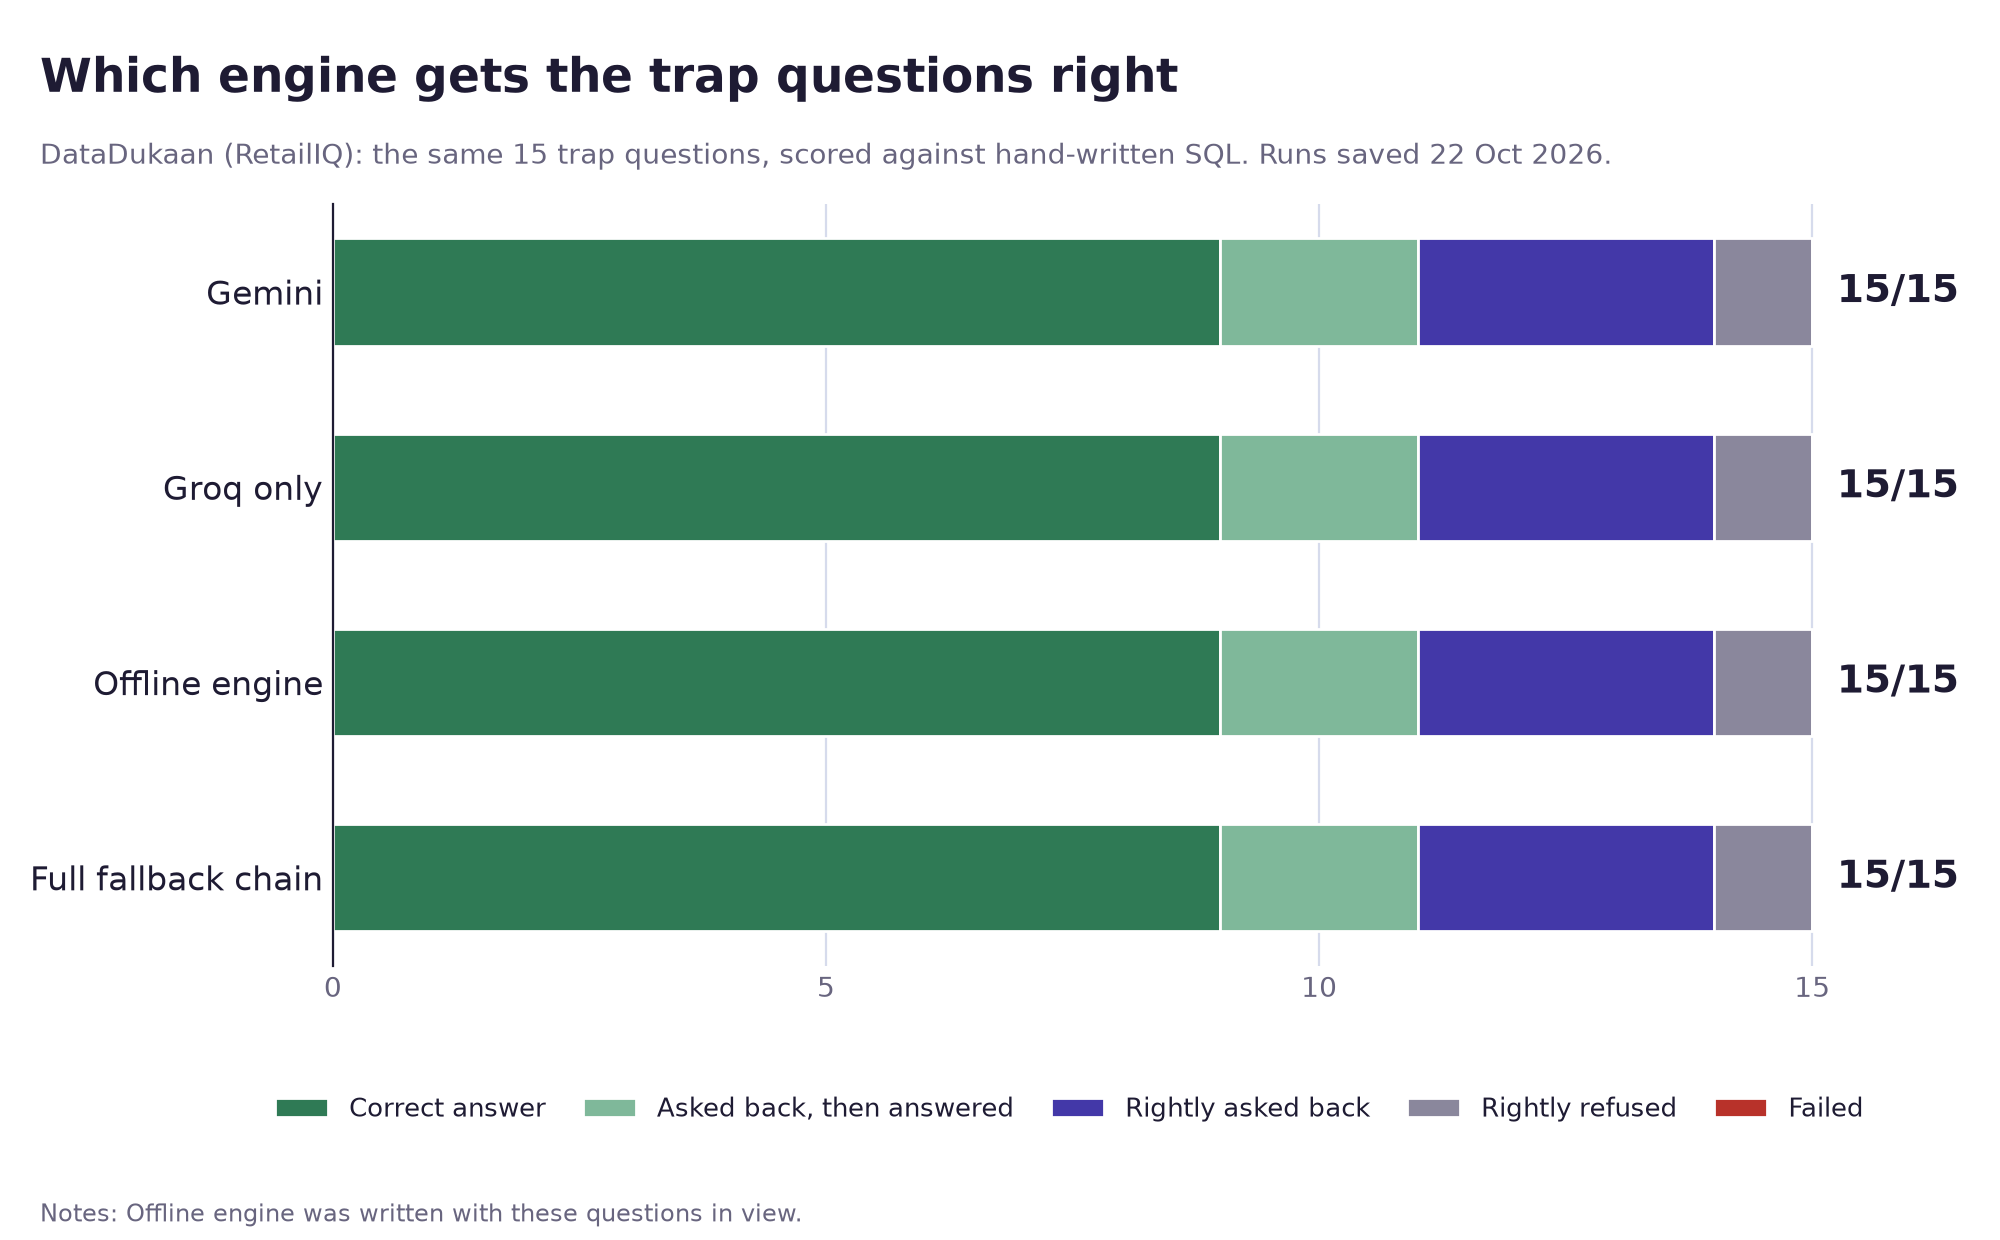
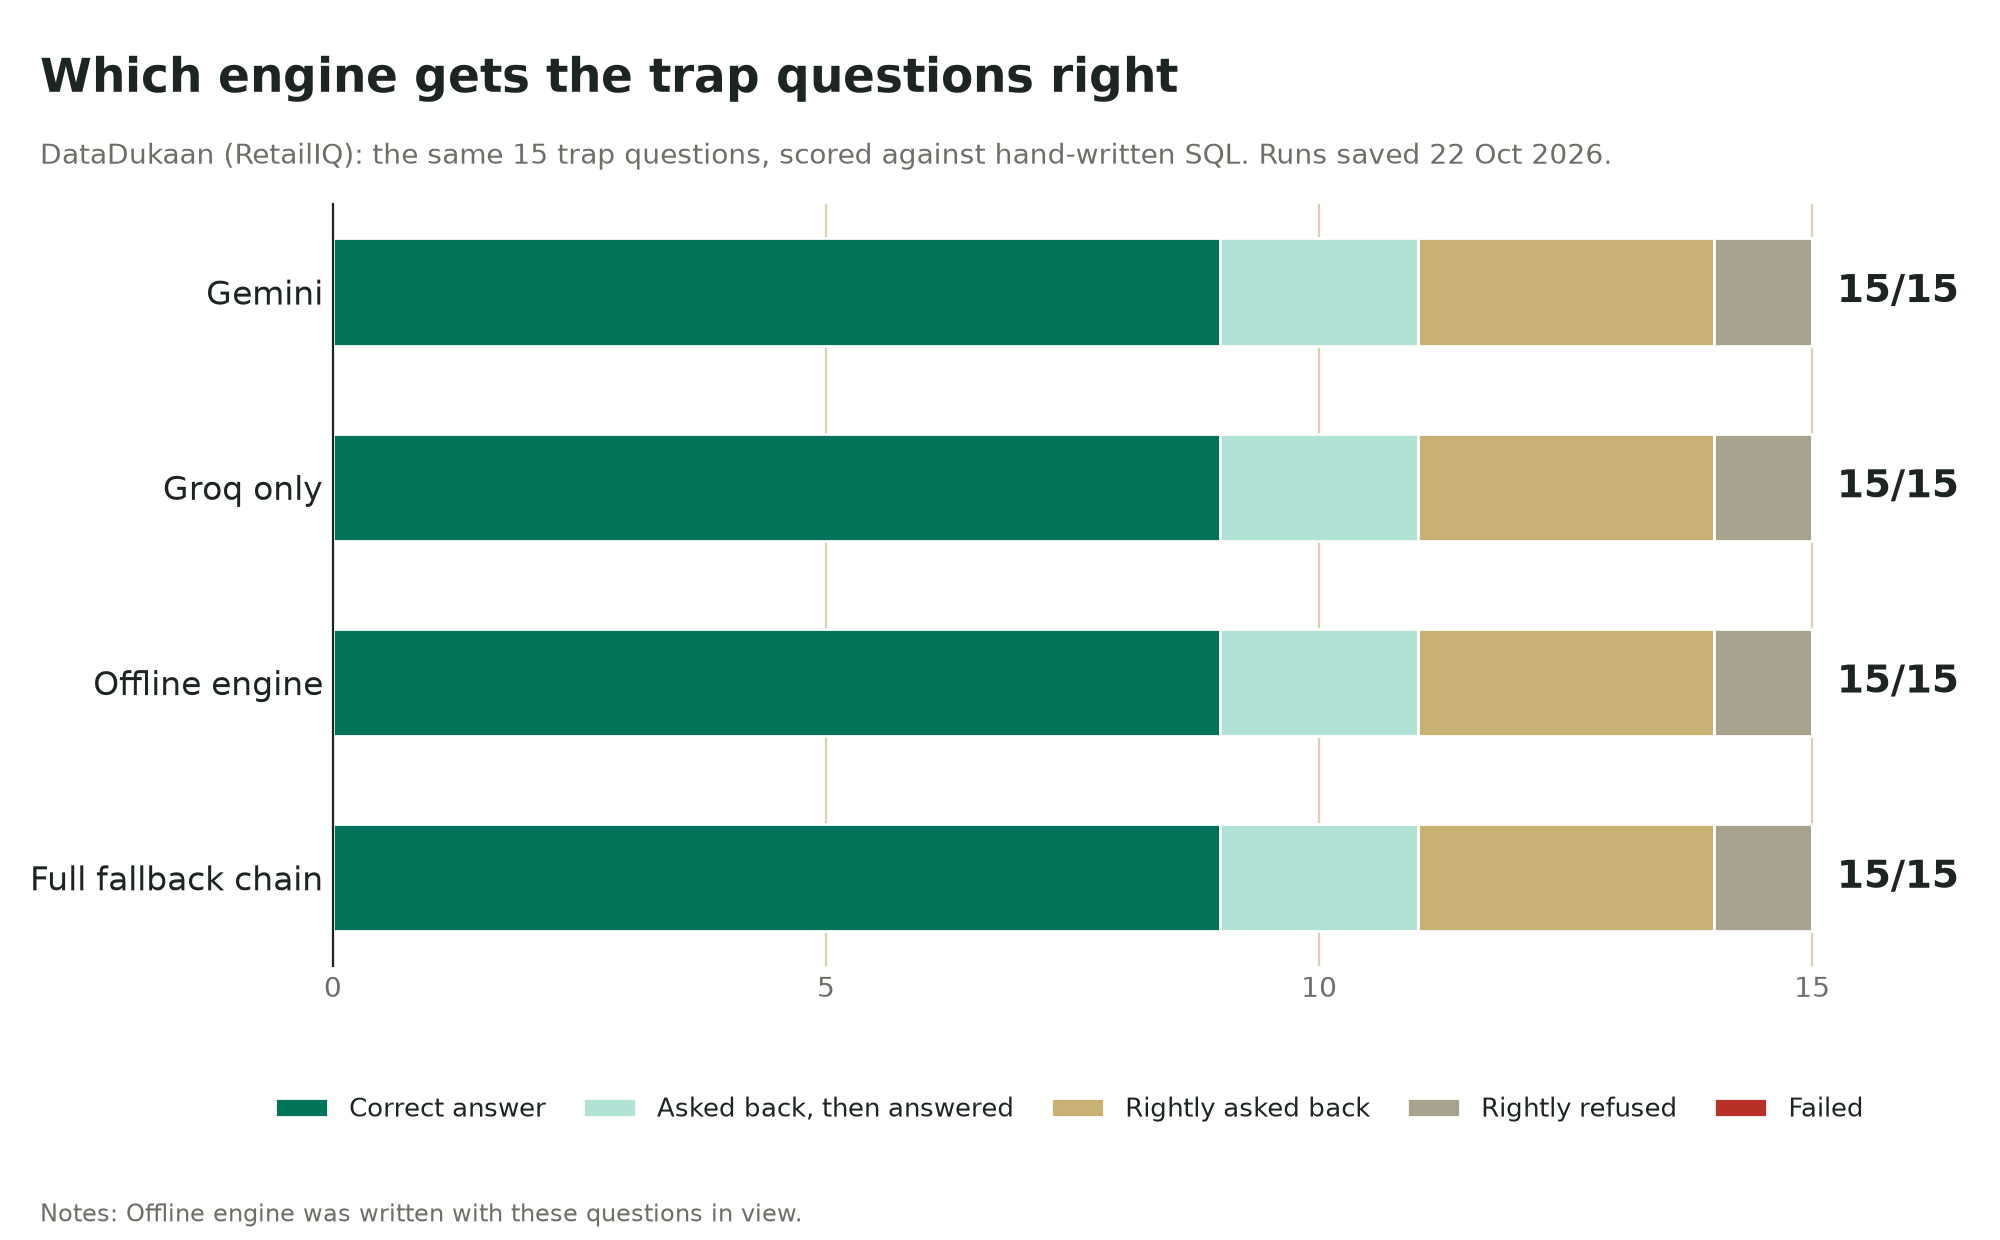
Apply teal, mint, off-white, sand and gold colour palette

diff --git a/web/src/components/Workspace.tsx b/web/src/components/Workspace.tsx
@@ -25,11 +25,11 @@ export function stampFor(e: Entry): StampKind | null {
   if (e.error) return { text: "Failed", color: "text-stamp" };
   const r = e.response;
   if (!r) return null;
-  if (r.status === "clarification") return { text: "Needs detail", color: "text-carbon" };
+  if (r.status === "clarification") return { text: "Needs detail", color: "text-gold-deep" };
   if (r.status === "refused" || r.status === "blocked") return { text: "Refused", color: "text-stamp" };
   if (r.status === "unavailable") return { text: "Can't answer", color: "text-stamp" };
   if (r.status !== "success") return { text: "Failed", color: "text-stamp" };
-  if (r.attempts > 1) return { text: "Fixed & re-run", color: "text-carbon" };
+  if (r.attempts > 1) return { text: "Fixed & re-run", color: "text-gold-deep" };
   if (r.source === "offline") return { text: "Answered offline", color: "text-ledger" };
   if (r.source === "saved") return { text: "Saved answer", color: "text-ledger" };
   return { text: "Answered", color: "text-ledger" };
@@ -112,11 +112,11 @@ export default function Workspace() {
     <div className="space-y-4">
       <div className="sheet grid min-h-[520px] md:grid-cols-[230px_10px_1fr]">
         {/* Counterfoils: one stub per question, in the order asked. */}
-        <aside className="border-b border-rule bg-[#FAFAFD] md:border-b-0">
+        <aside className="border-b border-rule bg-[#FCFBF7] md:border-b-0">
           <div className="flex items-baseline justify-between px-4 pb-2 pt-4">
             <span className="text-sm font-semibold">This session</span>
             {entries.length > 0 && (
-              <button onClick={startOver} className="text-[13px] text-muted underline-offset-2 hover:text-carbon hover:underline">
+              <button onClick={startOver} className="text-[13px] text-muted underline-offset-2 hover:text-carbon-deep hover:underline">
                 Start over
               </button>
             )}
@@ -137,7 +137,7 @@ export default function Workspace() {
                         setViewSaved(null);
                       }}
                       className={`block w-full border-l-[3px] px-4 py-3 text-left transition-colors ${
-                        !viewSaved && selected === i ? "border-carbon bg-carbon-wash/70" : "border-transparent hover:bg-carbon-wash/40"
+                        !viewSaved && selected === i ? "border-carbon bg-carbon-wash/50" : "border-transparent hover:bg-carbon-wash/40"
                       }`}
                     >
                       <span className="narrow text-[15px] font-bold text-muted">No. {String(i + 1).padStart(3, "0")}</span>
@@ -159,7 +159,7 @@ export default function Workspace() {
                     <button
                       onClick={() => setViewSaved(s.id)}
                       className={`block w-full border-l-[3px] px-4 py-2.5 text-left transition-colors ${
-                        viewSaved === s.id ? "border-ledger bg-carbon-wash/70" : "border-transparent hover:bg-carbon-wash/40"
+                        viewSaved === s.id ? "border-ledger bg-carbon-wash/50" : "border-transparent hover:bg-carbon-wash/40"
                       }`}
                     >
                       <span className="line-clamp-2 block text-[13.5px] leading-snug">{s.question}</span>
@@ -224,11 +224,11 @@ export default function Workspace() {
         </div>
         <div className="flex flex-wrap gap-x-6 gap-y-1 px-4 pb-3 pt-2 text-[13px] text-muted">
           <label className="flex cursor-pointer items-center gap-2">
-            <input type="checkbox" checked={injectFault} onChange={(e) => setInjectFault(e.target.checked)} className="accent-carbon" />
+            <input type="checkbox" checked={injectFault} onChange={(e) => setInjectFault(e.target.checked)} className="accent-carbon-deep" />
             Demo: break the first SQL, to watch the agent fix it
           </label>
           <label className="flex cursor-pointer items-center gap-2">
-            <input type="checkbox" checked={simulateOutage} onChange={(e) => setSimulateOutage(e.target.checked)} className="accent-carbon" />
+            <input type="checkbox" checked={simulateOutage} onChange={(e) => setSimulateOutage(e.target.checked)} className="accent-carbon-deep" />
             Demo: pretend the AI is down, to use the offline engine
           </label>
         </div>
@@ -289,7 +289,7 @@ function Bill({
 
       {!r && !entry.error && (
         <div className="mt-6 flex items-center gap-3 text-[15px] text-muted">
-          <Loader2 className="animate-spin text-carbon" size={18} /> Reading the question, writing SQL and running it on the ledger…
+          <Loader2 className="animate-spin text-carbon-deep" size={18} /> Reading the question, writing SQL and running it on the ledger…
         </div>
       )}
 
@@ -314,7 +314,7 @@ function Bill({
 
           {r.status === "success" && (
             <>
-              <button onClick={onToggleSave} className="mt-4 text-[13px] font-medium text-carbon underline-offset-2 hover:underline">
+              <button onClick={onToggleSave} className="mt-4 text-[13px] font-medium text-carbon-deep underline-offset-2 hover:underline">
                 {saved ? "Remove from saved analyses" : "Save this analysis"}
               </button>
               <ResultView r={r} />

diff --git a/web/src/components/ResultView.tsx b/web/src/components/ResultView.tsx
@@ -84,7 +84,7 @@ export function SortableTable({ columns, rows, max = 200, exportable = true }: {
         </table>
       </div>
       {exportable && (
-        <button onClick={() => downloadCSV("datadukaan-result.csv", columns, rows)} className="mt-3 text-[13px] font-medium text-carbon underline-offset-2 hover:underline">
+        <button onClick={() => downloadCSV("datadukaan-result.csv", columns, rows)} className="mt-3 text-[13px] font-medium text-carbon-deep underline-offset-2 hover:underline">
           Download as CSV
         </button>
       )}
@@ -101,7 +101,7 @@ function AutoChart({ r }: { r: AskResponse }) {
   const data = r.rows.map((row) => ({ label: String(useDesc ? row[descIdx] ?? row[0] : row[0]).slice(0, 30), value: row[valueIdx] as number }));
   const fmt = (v: number) => formatCell(valueCol, v);
   const compact = (v: number) => Intl.NumberFormat("en-GB", { notation: "compact" }).format(v);
-  const axis = { fontSize: 12, fill: "#68657F", fontFamily: "Archivo" };
+  const axis = { fontSize: 12, fill: "#6B6F66", fontFamily: "Archivo" };
   return (
     <figure>
       <figcaption className="mb-2 text-[13px] text-muted">
@@ -110,19 +110,19 @@ function AutoChart({ r }: { r: AskResponse }) {
       <ResponsiveContainer width="100%" height={Math.max(240, r.chart_type === "bar" ? data.length * 30 + 40 : 300)}>
         {r.chart_type === "line" ? (
           <LineChart data={data} margin={{ left: 4, right: 16, top: 8 }}>
-            <CartesianGrid stroke="#D6DBEC" vertical={false} />
-            <XAxis dataKey="label" tick={axis} tickLine={false} axisLine={{ stroke: "#1E1B33" }} />
+            <CartesianGrid stroke="#DED0AB" vertical={false} />
+            <XAxis dataKey="label" tick={axis} tickLine={false} axisLine={{ stroke: "#1D2521" }} />
             <YAxis tick={axis} tickFormatter={compact} tickLine={false} axisLine={false} width={56} />
-            <Tooltip formatter={(v: number) => fmt(v)} contentStyle={{ borderRadius: 2, borderColor: "#D6DBEC", fontFamily: "Archivo" }} />
-            <Line type="monotone" dataKey="value" name={valueCol} stroke="#4338A8" strokeWidth={2.5} dot={{ r: 3, fill: "#4338A8" }} />
+            <Tooltip formatter={(v: number) => fmt(v)} contentStyle={{ borderRadius: 2, borderColor: "#DED0AB", fontFamily: "Archivo" }} />
+            <Line type="monotone" dataKey="value" name={valueCol} stroke="#009B77" strokeWidth={2.5} dot={{ r: 3, fill: "#009B77" }} />
           </LineChart>
         ) : (
           <BarChart data={data} layout="vertical" margin={{ left: 4, right: 24 }}>
-            <CartesianGrid stroke="#D6DBEC" horizontal={false} />
+            <CartesianGrid stroke="#DED0AB" horizontal={false} />
             <XAxis type="number" tick={axis} tickFormatter={compact} tickLine={false} axisLine={false} />
-            <YAxis type="category" dataKey="label" width={200} tick={axis} interval={0} tickLine={false} axisLine={{ stroke: "#1E1B33" }} />
-            <Tooltip formatter={(v: number) => fmt(v)} cursor={{ fill: "#ECEAF8" }} contentStyle={{ borderRadius: 2, borderColor: "#D6DBEC", fontFamily: "Archivo" }} />
-            <Bar dataKey="value" name={valueCol} fill="#4338A8" barSize={16} />
+            <YAxis type="category" dataKey="label" width={200} tick={axis} interval={0} tickLine={false} axisLine={{ stroke: "#1D2521" }} />
+            <Tooltip formatter={(v: number) => fmt(v)} cursor={{ fill: "#B2E1D6" }} contentStyle={{ borderRadius: 2, borderColor: "#DED0AB", fontFamily: "Archivo" }} />
+            <Bar dataKey="value" name={valueCol} fill="#009B77" barSize={16} />
           </BarChart>
         )}
       </ResponsiveContainer>
@@ -143,7 +143,7 @@ export function SqlInspector({ sql, note = true }: { sql: string; note?: boolean
             setCopied(true);
             setTimeout(() => setCopied(false), 1500);
           }}
-          className="font-medium text-carbon underline-offset-2 hover:underline"
+          className="font-medium text-carbon-deep underline-offset-2 hover:underline"
         >
           {copied ? "Copied" : "Copy SQL"}
         </button>

diff --git a/web/src/index.css b/web/src/index.css
@@ -7,7 +7,7 @@ body {
 }
 
 :focus-visible {
-  outline: 2px solid #4338a8;
+  outline: 2px solid #00735a;
   outline-offset: 2px;
 }
 
@@ -23,26 +23,26 @@ body {
 /* A bill-book sheet: the one surface with depth. */
 .sheet {
   @apply bg-sheet;
-  box-shadow: 0 1px 0 #d6dbec, 0 18px 40px -28px rgba(30, 27, 51, 0.45);
+  box-shadow: 0 1px 0 #ded0ab, 0 18px 40px -28px rgba(29, 37, 33, 0.3);
 }
 
 /* Perforation between counterfoil and bill. */
 .perforation {
-  background-image: radial-gradient(circle, #eeedf5 2.5px, transparent 3px);
+  background-image: radial-gradient(circle, #ded0ab 2.5px, transparent 3px);
   background-size: 8px 13px;
   background-position: center top;
   background-repeat: repeat-y;
 }
 .perforation-h {
-  background-image: radial-gradient(circle, #eeedf5 2.5px, transparent 3px);
+  background-image: radial-gradient(circle, #ded0ab 2.5px, transparent 3px);
   background-size: 13px 8px;
   background-repeat: repeat-x;
   background-position: left center;
 }
 
-/* Red margin rule, as in a ledger book. */
+/* Gold margin rule, as in a ledger book. */
 .margin-rule {
-  border-left: 1px solid #e28a85;
+  border-left: 1px solid #c8b273;
   padding-left: 0.875rem;
 }
 
@@ -57,19 +57,19 @@ body {
 /* Ledger tables: double rule under the header, like an account book. */
 .ledger th {
   @apply narrow whitespace-nowrap px-3 pb-1.5 pt-2 text-left text-[13px] font-semibold text-muted;
-  border-bottom: 3px double #1e1b33;
+  border-bottom: 3px double #1d2521;
 }
 .ledger td {
   @apply border-b border-rule px-3 py-1.5;
 }
 .ledger tr:hover td {
-  background: #f6f5fb;
+  background: #f3efe2;
 }
 
-/* Carbon copy: SQL printed in violet carbon ink. */
+/* Carbon copy: SQL printed in teal carbon ink. */
 .carbon-copy {
-  @apply overflow-x-auto whitespace-pre-wrap break-words rounded-sm bg-carbon-wash p-4 font-mono text-[12.5px] leading-relaxed text-carbon-deep;
-  background-image: repeating-linear-gradient(0deg, transparent 0 21px, rgba(67, 56, 168, 0.07) 21px 22px);
+  @apply overflow-x-auto whitespace-pre-wrap break-words rounded-sm bg-carbon-wash/40 p-4 font-mono text-[12.5px] leading-relaxed text-carbon-deep;
+  background-image: repeating-linear-gradient(0deg, transparent 0 21px, rgba(0, 155, 119, 0.09) 21px 22px);
 }
 
 /* Rubber stamp: the single loud element. */
@@ -105,11 +105,11 @@ body {
   @apply -mb-px whitespace-nowrap border-b-2 border-transparent px-1 pb-2 text-sm font-medium text-muted transition-colors hover:text-ink;
 }
 .tab[aria-selected="true"] {
-  @apply border-carbon text-carbon;
+  @apply border-carbon text-carbon-deep;
 }
 
 .btn-carbon {
-  @apply rounded-sm bg-carbon px-4 py-2 text-sm font-semibold text-white transition-colors hover:bg-carbon-deep disabled:opacity-40;
+  @apply rounded-sm bg-carbon-deep px-4 py-2 text-sm font-semibold text-white transition-colors hover:bg-[#005C48] disabled:opacity-40;
 }
 
 @media (prefers-reduced-motion: reduce) {

diff --git a/web/src/components/Evaluation.tsx b/web/src/components/Evaluation.tsx
@@ -128,7 +128,7 @@ export default function Evaluation() {
                     <td className="hidden align-top text-[13px] text-muted sm:table-cell">{t.category}</td>
                     <td className="py-2 text-right align-top">
                       {running === t.id ? (
-                        <Loader2 size={16} className="ml-auto animate-spin text-carbon" />
+                        <Loader2 size={16} className="ml-auto animate-spin text-carbon-deep" />
                       ) : r ? (
                         <span className={`stamp stamp-sm ${r.passed ? "text-ledger" : "text-stamp"}`}>{r.passed ? "Pass" : "Fail"}</span>
                       ) : (
@@ -138,7 +138,7 @@ export default function Evaluation() {
                   </tr>
                   {isOpen && (
                     <tr>
-                      <td colSpan={4} className="bg-[#FAFAFD] px-3 pb-5 pt-3">
+                      <td colSpan={4} className="bg-[#FCFBF7] px-3 pb-5 pt-3">
                         <p className="max-w-3xl text-[13.5px] text-muted">The trap: {t.challenge}</p>
                         {r && (
                           <p className={`mt-1 text-[13.5px] ${r.passed ? "text-ledger" : "text-stamp"}`}>

diff --git a/web/tailwind.config.js b/web/tailwind.config.js
@@ -5,15 +5,16 @@ export default {
     extend: {
       fontFamily: { sans: ["Archivo", "system-ui", "sans-serif"], mono: ["IBM Plex Mono", "monospace"] },
       colors: {
-        paper: "#EEEDF5",
+        paper: "#F9F7F1",
         sheet: "#FFFFFF",
-        ink: "#1E1B33",
-        muted: "#68657F",
-        carbon: { DEFAULT: "#4338A8", wash: "#ECEAF8", deep: "#2F2780" },
-        rule: "#D6DBEC",
-        margin: "#E28A85",
+        ink: "#1D2521",
+        muted: "#6B6F66",
+        carbon: { DEFAULT: "#009B77", wash: "#B2E1D6", deep: "#00735A" },
+        rule: "#DED0AB",
+        margin: "#C8B273",
         stamp: "#B8322A",
-        ledger: "#2F7A55",
+        ledger: "#00735A",
+        gold: { DEFAULT: "#C8B273", deep: "#7D6A2E" },
       },
     },
   },

diff --git a/scripts/make_chart.py b/scripts/make_chart.py
@@ -19,13 +19,13 @@ from backend.evaluation import compare_engines  # noqa: E402
 
 OUT = os.path.join(ROOT, "docs", "engine_comparison.png")
 SEGMENTS = [
-    ("answered", "Correct answer", "#2F7A55"),
-    ("asked_then_answered", "Asked back, then answered", "#7FB89A"),
-    ("asked_back", "Rightly asked back", "#4338A8"),
-    ("refused", "Rightly refused", "#8A879C"),
+    ("answered", "Correct answer", "#00735A"),
+    ("asked_then_answered", "Asked back, then answered", "#B2E1D6"),
+    ("asked_back", "Rightly asked back", "#C8B273"),
+    ("refused", "Rightly refused", "#A8A28F"),
     ("failed", "Failed", "#B8322A"),
 ]
-INK, MUTED, RULE, PAPER = "#1E1B33", "#68657F", "#D6DBEC", "#FFFFFF"
+INK, MUTED, RULE, PAPER = "#1D2521", "#6B6F66", "#DED0AB", "#FFFFFF"
 
 
 def main() -> None:
